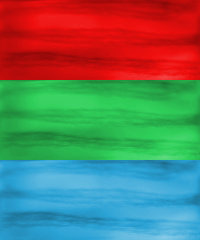
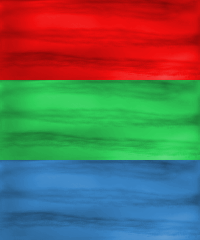
Fading

diff --git a/level.py b/level.py
@@ -12,6 +12,11 @@ import hud
 class Level(gameinstance.GameInstance):
 	"""A single level representation."""
 
+	# Reasons to end/restart the level.
+	DEATH      = 0x1234
+	NEXT_LEVEL = 0x1235
+	QUIT_LEVEL = 0x1236
+
 	class Score:
 		BRICK_HIT   = 10
 		PICKUP      = 20
@@ -27,6 +32,7 @@ class Level(gameinstance.GameInstance):
 		self.palette = Palette()
 		self.bricks  = bricks
 		self.ball    = Ball(vec2(0, 0), vec2(0, 1), self.palette)
+		self.break_reason = None
 
 		mx, my = misc.getMousePos()
 		self.palette.setPosition(mx)
@@ -68,8 +74,7 @@ class Level(gameinstance.GameInstance):
 		self.ball.handleCollision(circleLineCollision(bpos, r, y=gs[1]))
 		self.ball.handleCollision(circleLineCollision(bpos, r, x=gs[0]+gs[2]))
 		if(circleLineCollision(bpos, r, y=gs[1]+gs[3]+MAGIC) != NO_COLLISION):
-			self.performDeath()
-			#return
+			self.performBreak(self.DEATH)
 
 		# 2b)
 		c = circleBoxCollision(bpos, r, self.palette.rect())
@@ -126,7 +131,13 @@ class Level(gameinstance.GameInstance):
 				bonus = Bonus(i.center())
 				self.bonuses.append(bonus)
 
-		self.bricks = [x for x in self.bricks if x not in to_delete]
+		if len(to_delete):
+			# Remove destroyed bricks.
+			self.bricks = [x for x in self.bricks if x not in to_delete]
+
+			# Check whether player destroyed all the blocks.
+			if not len([x for x in self.bricks if x.brick_type != Brick.INVULNERABLE]):
+				self.performBreak(self.NEXT_LEVEL)
 
 		# 2d)
 		p_x = self.palette.position.x
@@ -161,7 +172,7 @@ class Level(gameinstance.GameInstance):
 		# If the ball somehow escaped, restart the game.
 		dist = (self.ball.position - self.palette.position).length()
 		if dist > 5000:
-			self.performDeath()
+			self.performBreak(self.DEATH)
 
 	def handleEvent(self, e):
 		"""Process events such as palette movement."""
@@ -233,7 +244,7 @@ class Level(gameinstance.GameInstance):
 			pass
 		elif bonus_type == Bonus.DEATH:
 			ss += self.Score.BAD_PICKUP
-			self.performDeath()
+			self.performBreak(self.DEATH)
 		elif bonus_type == Bonus.SKYFALL:
 			self.skyfall = True
 		elif bonus_type == Bonus.CATCH_N_HOLD:
@@ -276,6 +287,13 @@ class Level(gameinstance.GameInstance):
 		h.load(str(self.lives), renderer, size=constants.UPPER_MARGIN-10)
 		h.render(renderer, (constants.WINDOW_SIZE.x - constants.SIDE_MARGIN - 80, 5))
 
+		if self.fading:
+			self.fader.draw(renderer)
+			if self.fader.finished():
+				self.fading = False
+				self.fader.reset()
+				self.completeBreak()
+
 	def performSkyfall(self):
 		"""Move all bricks 1 step down."""
 		# Organize existing bricks into columns.
@@ -295,16 +313,38 @@ class Level(gameinstance.GameInstance):
 				if v[i].position.y != v[i-1].position.y-1:
 					v[i].position.y += 1
 
-
-	def performDeath(self):
-		"""Handle ball death sequence. Result depends on an amount of lives player has."""
-		self.lives -= 1
+	def performBreak(self, reason):
+		"""Either completed level or death."""
 		self.skyfall = False
 		self.catch_n_hold = False
-		if self.lives == 0:
+		self.fading = True
+		self.break_reason = reason
+
+	def completeBreak(self):
+		"""Complete break sequence."""
+		if self.break_reason == self.DEATH:
+			self.lives -= 1
+			if self.lives == 0:
+				self.endgame = True
+			else:
+				self.bonuses = []
+				self.restart()
+		elif self.break_reason == self.NEXT_LEVEL:
+			pass
+		elif self.break_reason == self.QUIT_LEVEL:
 			self.endgame = True
-		else:
-			self.restart()
+	
+	# def completeDeath(self):
+		# """Handle ball death sequence. Result depends on an amount of lives player has."""
+		# self.lives -= 1
+		# if self.lives == 0:
+			# self.endgame = True
+		# else:
+			# self.bonuses = []
+			# self.restart()
+	# 
+	# def performVictory(self):
+		# self.performBreak(self.NEXT_LEVEL)
 	
 	def neighboursOf(self, brick):
 		"""Returns list of brick's neighbours."""

diff --git a/menu.py b/menu.py
@@ -4,6 +4,7 @@ import gameinstance
 from colour import Colour
 from constants import WINDOW_SIZE, TITLE_FONT_SIZE
 from vec2 import vec2
+from misc import Fade
 import sdl2
 import hud
 
@@ -37,7 +38,7 @@ class Menu(gameinstance.GameInstance):
 			i.handleEvent(e)
 
 		if self.menu.elem[0].isPressed():
-			self.choice = 'levels/p1.noid'
+			self.fading = True
 		elif self.menu.elem[1].isPressed():
 			self.is_open = False
 	
@@ -45,8 +46,12 @@ class Menu(gameinstance.GameInstance):
 		"""Render scene."""
 		self.title.render(renderer)
 		self.menu.render(renderer)
-		#for i in self.options:
-		#	i.render(renderer)
+		if self.fading:
+			self.fader.draw(renderer)
+			if self.fader.finished():
+				self.fading = False
+				self.fader.reset()
+				self.choice = 'levels/p1.noid'
 
 	def isOpen(self):
 		"""Returns False if GameInstance should be no longer active."""

diff --git a/misc.py b/misc.py
@@ -45,3 +45,32 @@ def gameSpace():
 	        0, #UPPER_MARGIN,
 		    constants.WINDOW_SIZE.x - 2 * constants.SIDE_MARGIN,
 		    constants.WINDOW_SIZE.y ) #- UPPER_MARGIN)
+
+class Fade():
+	MAXIMUM = 50
+	DARKEN, LIGHTEN = 0x998, 0x999
+
+	def __init__(self, darken=True):
+		self.reset(darken)
+	
+	def getState(self):
+		if self.state < Fade.MAXIMUM:
+			self.state += 1
+			return self.state - 1
+		return self.state
+
+	def getColour(self):
+		a = int(0xff * self.getState() / Fade.MAXIMUM)
+		if a == Fade.LIGHTEN:
+			a = 0xff - a
+		return (0, 0, 0, a)
+	
+	def finished(self):
+		return self.state == Fade.MAXIMUM
+
+	def reset(self, darken=True):
+		self.state = 0
+		self.direction = Fade.DARKEN if darken else Fade.LIGHTEN
+
+	def draw(self, renderer):
+		renderer.fill((0, 0, constants.WINDOW_SIZE.x, constants.WINDOW_SIZE.y), color=self.getColour())

diff --git a/gameinstance.py b/gameinstance.py
@@ -1,7 +1,11 @@
 #!/usr/bin/python3
+from misc import Fade
 
 class GameInstance:
 	"""A base class for classes that represent some game state."""
+
+	fader = Fade()
+	fading = False
 
 	def update(self):
 		"""Update game state."""
